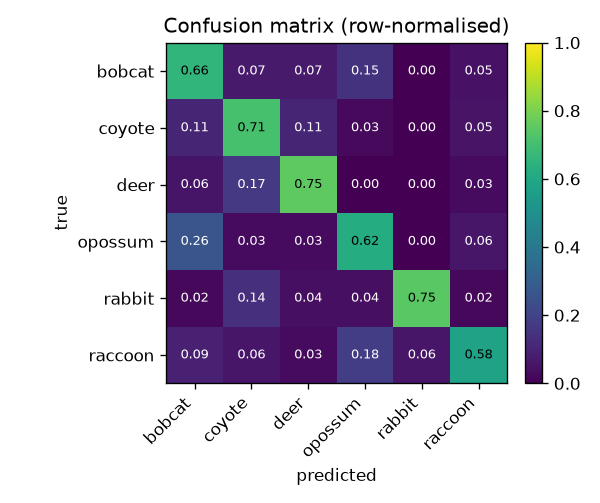
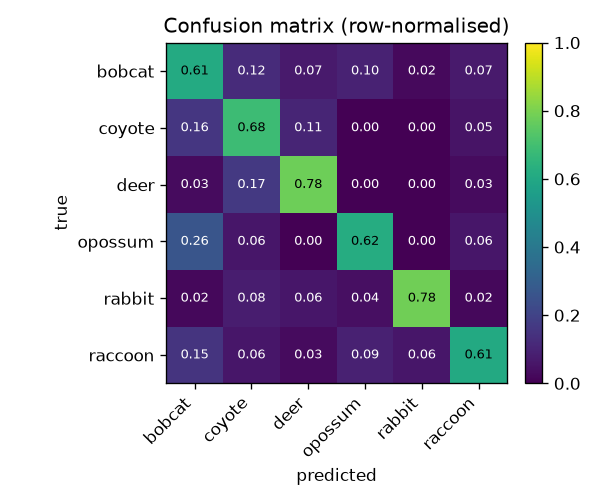
turning tta off by default

diff --git a/scripts/predict.py b/scripts/predict.py
@@ -22,6 +22,22 @@ from src.data import build_transforms, crop_to_box, lookup_bbox  # noqa: E402
 from src.model import build_model  # noqa: E402
 
 
+def _saved_temperature(checkpoint_path):
+    """Read the temperature fitted during evaluation, from metrics.json alongside
+    the checkpoint. Falls back to 1.0 (no calibration) when unavailable."""
+    import json
+
+    path = os.path.join(os.path.dirname(os.path.abspath(checkpoint_path)),
+                        "metrics.json")
+    if not os.path.exists(path):
+        return 1.0
+    try:
+        with open(path) as fh:
+            return float(json.load(fh).get("temperature", 1.0)) or 1.0
+    except Exception:
+        return 1.0
+
+
 def resolve_box(image_path, use_detect, no_crop):
     """Return (box, how) describing which crop to apply."""
     if no_crop:
@@ -50,6 +66,8 @@ def main():
     ap.add_argument("--detect", action="store_true",
                     help="use YOLOv8 to find the animal when the image has no "
                          "manifest box")
+    ap.add_argument("--no-calibration", action="store_true",
+                    help="skip the fitted temperature and show raw softmax")
     ap.add_argument("--no-crop", action="store_true",
                     help="classify the whole frame (matches a model trained with "
                          "--no-crop-to-bbox)")
@@ -77,12 +95,22 @@ def main():
                           pad_to_square=getattr(cfg, "pad_to_square", True))
     img = crop_to_box(Image.open(args.image).convert("RGB"), box)
     x = tf(img).unsqueeze(0)
+
+    # Match evaluation exactly: same TTA setting, and the temperature that was
+    # fitted on the validation split during evaluation (recorded in metrics.json),
+    # so a printed confidence means the same thing as the reported ECE.
+    tta = getattr(cfg, "tta", False)
+    temperature = _saved_temperature(args.checkpoint) if not args.no_calibration else 1.0
     with torch.no_grad():
-        probs = torch.softmax(net(x), dim=1).squeeze(0)
+        logits = net(x)
+        if tta:
+            logits = (logits + net(torch.flip(x, dims=[3]))) / 2
+        probs = torch.softmax(logits / temperature, dim=1).squeeze(0)
 
     topk = min(args.topk, len(class_names))
     scores, idx = probs.topk(topk)
-    print(f"Predictions for {args.image}  [input: {how}]")
+    calib = f", T={temperature:.2f}" if temperature != 1.0 else ""
+    print(f"Predictions for {args.image}  [input: {how}{'; TTA' if tta else ''}{calib}]")
     for rank, (s, i) in enumerate(zip(scores.tolist(), idx.tolist()), 1):
         print(f"  {rank}. {class_names[i]:20s} {s:.3f}")
 

diff --git a/src/evaluate.py b/src/evaluate.py
@@ -87,9 +87,10 @@ def _collect(net, loader, device, tta: bool = False, temperature: float = 1.0):
     """Run the model over a loader and return (y_true, y_pred, probabilities).
 
     Args:
-        tta: average the softmax over the image and its horizontal mirror. A
-            camera-trap animal is equally likely to face either way, so this is a
-            free, label-preserving ensemble.
+        tta: average the logits over the image and its horizontal mirror. In
+            principle a free ensemble (an animal faces either way), but measured on
+            this dataset it slightly hurts both accuracy and calibration, so it is
+            off by default.
         temperature: divide logits by this before softmax. Fitted on the
             validation split, it calibrates confidence without changing the
             ranking (so accuracy is unchanged, ECE improves).
@@ -160,11 +161,11 @@ def _validate_checkpoint(state, cfg, dataset_class_names):
             f"  dataset:    {list(dataset_class_names)}\n"
             "Re-evaluate against the dataset the checkpoint was trained on.")
     ck = state.get("config", {}) or {}
-    # crop_to_bbox and split_by matter as much as the architecture: scoring a
-    # crop-trained model on full frames (or against a different split) silently
-    # reports the wrong number rather than failing.
+    # Any setting that changes the pixels the model is shown, or which split it is
+    # scored on, must match — scoring a crop-trained model on full frames would
+    # otherwise silently report the wrong number instead of failing.
     for field in ("backbone", "image_size", "grayscale_to_rgb",
-                  "crop_to_bbox", "split_by"):
+                  "crop_to_bbox", "pad_to_square", "split_by"):
         if field in ck and getattr(cfg, field) != ck[field]:
             raise ValueError(
                 f"config mismatch on '{field}': checkpoint={ck[field]!r}, "
@@ -324,7 +325,7 @@ def evaluate(cfg, checkpoint: str | None = None) -> Dict:
                   num_workers=safe_num_workers(cfg.num_workers))
     test_loader = DataLoader(datasets.test, shuffle=False, **common)
 
-    tta = getattr(cfg, "tta", True)
+    tta = getattr(cfg, "tta", False)
     # Calibrate on validation (never on test), so the reported ECE is honest.
     temperature = 1.0
     if getattr(cfg, "temperature_scaling", True) and len(datasets.val) > 0:

diff --git a/src/config.py b/src/config.py
@@ -53,7 +53,11 @@ class Config:
     early_stop_patience: int = 5           # stop if val acc stalls this many epochs
 
     # --- Evaluation ---
-    tta: bool = True                       # average over the horizontal mirror
+    tta: bool = False                      # average over the horizontal mirror.
+                                           # Measured on this dataset it costs 2x
+                                           # inference and slightly HURTS both
+                                           # accuracy and calibration, so it is
+                                           # off by default (--tta to enable).
     temperature_scaling: bool = True       # calibrate confidence on the val split
 
     # --- Runtime ---

diff --git a/README.md b/README.md
@@ -102,18 +102,20 @@ python scripts/predict.py data/night_wildlife/bobcat/bobcat_0032.jpg \
 ```
 
 ```
-Predictions for data/night_wildlife/bobcat/bobcat_0032.jpg  [input: dataset manifest box]
-  1. bobcat               0.956
-  2. raccoon              0.027
-  3. rabbit               0.007
+Predictions for data/night_wildlife/bobcat/bobcat_0032.jpg  [input: dataset manifest box, T=1.07]
+  1. bobcat               0.843
+  2. coyote               0.127
+  3. raccoon              0.015
 ```
 
 Prediction applies the **same animal crop the model was trained on**: the box comes
 from the manifest when the image is part of a built dataset. For an image from
 elsewhere, add `--detect` to locate the animal with YOLOv8, or `--no-crop` to
-classify the whole frame. The bracketed note says which input was used.
+classify the whole frame. Confidences use the same temperature fitted during
+evaluation, so they mean what the reported ECE says (`--no-calibration` shows the
+raw softmax). The bracketed note says which input and calibration were used.
 
-This is one example — at ~0.68 accuracy the model still gets individual images
+This is one example — at ~0.69 accuracy the model still gets individual images
 wrong, so don't read a single prediction as representative.
 
 Everything (checkpoint, `metrics.json`, and the plots) is written to
@@ -129,10 +131,10 @@ small (233 images), so every number is reported with a 95% confidence interval.
 
 | Locations | What it measures | Accuracy (95% CI) |
 |-----------|------------------|-------------------|
-| **Unseen** (held-out sites) | generalisation to **new cameras** — the honest number | **0.68** (0.62–0.74) |
-| Seen (held-out images from training sites) | performance on familiar backgrounds | 0.81 |
+| **Unseen** (held-out sites) | generalisation to **new cameras** — the honest number | **0.69** (0.63–0.74) |
+| Seen (held-out images from training sites) | performance on familiar backgrounds | 0.80 |
 
-The **+0.13** gap between seen and unseen locations is the key result: even with
+The **+0.11** gap between seen and unseen locations is the key result: even with
 the animal cropped out of the frame, a model still does noticeably better on
 cameras it has seen. Random guessing with 6 classes is 0.17.
 
@@ -141,28 +143,34 @@ Other metrics on the unseen-location test set:
 | Metric | Value |
 |--------|-------|
 | Balanced accuracy | 0.68 |
-| Macro-F1 (95% CI) | 0.68 (0.62–0.73) |
-| Top-2 / Top-3 accuracy | 0.82 / 0.87 |
-| Expected calibration error | 0.07 (temperature-scaled, T=1.07) |
+| Macro-F1 (95% CI) | 0.68 (0.62–0.74) |
+| Top-2 / Top-3 accuracy | 0.83 / 0.87 |
+| Expected calibration error | 0.05 (temperature-scaled, T=1.07) |
 
 **Detected-animal vs. full-frame** (issue: does cropping to the animal help?),
 same location split:
 
 | Input | Box coverage | Unseen acc | ECE |
 |-------|-------------|-----------|-----|
-| **Detected animal** (crop to box) | 86% (GT + MegaDetector) | **0.68** | 0.07 |
+| **Detected animal** (crop to box) | 86% (GT + MegaDetector) | **0.69** | 0.05 |
 | Full frame | — | 0.46 | 0.22 |
 
 Cropping to the animal is what makes this work: showing the classifier the whole
-frame costs ~20 points. Three changes took the honest number from 0.55 to **0.68**
+frame costs ~20 points. Two changes took the honest number from 0.55 to **0.69**
 (see [`docs/experiments.md`](docs/experiments.md) for the run log):
 
-| Change | Unseen acc |
-|--------|-----------|
-| Baseline (centre-crop, COCO-YOLO boxes at 66%) | 0.55 |
-| + letterbox padding & infrared augmentation | ~0.61 |
-| + MegaDetector boxes (86% coverage) | 0.66 |
-| + test-time augmentation & temperature scaling | **0.68** |
+| Change | Unseen acc | ECE |
+|--------|-----------|-----|
+| Baseline (centre-crop, COCO-YOLO boxes at 66%) | 0.55 | 0.15 |
+| + letterbox padding & infrared augmentation | 0.61 | — |
+| + MegaDetector boxes (86% coverage) | **0.69** | 0.05 |
+
+Two things we tried that did **not** help accuracy, reported for honesty:
+**test-time augmentation** (mirror averaging) measured slightly *worse* on this
+data (0.687 → 0.682) and is off by default; **temperature scaling** cannot change
+accuracy at all — it is a monotonic rescaling — and improves only calibration
+(ECE 0.054 → 0.048). Most of the calibration gain came from the better model
+itself, not from the calibration step.
 
 > The full-frame row is from a separate run under the same location split; its
 > `results/samelocation` counterpart predates the current metrics schema, so treat
@@ -189,7 +197,7 @@ predictions and errors.
 
 ## Known limitations
 
-- The 0.68 is from a **small** dataset (200 images/species) with only six species;
+- The 0.69 is from a **small** dataset (200 images/species) with only six species;
   behaviour on rare species and at larger scale is untested.
 - Bounding boxes cover 86% of the frames (ground-truth + MegaDetector); the
   remaining 14% are classified from the whole (letterbox-padded) frame, so those

diff --git a/docs/experiments.md b/docs/experiments.md
@@ -8,11 +8,11 @@ img/species, infrared night frames); ResNet-18; grayscale→RGB input; image siz
 224; batch size 32; AdamW lr 3e-4, weight decay 1e-4; cosine schedule; label
 smoothing 0.05; seed 42. "Split" = how train/val/test is partitioned.
 
-> **Dataset versions.** v1 = whole-frame centre-crop, random split (superseded).
-> v2 = bbox crop baked into files, location split. **v3 (current)** = deterministic
-> + location/time-stratified sampling, single-species only, frames stored
-> **uncropped** with the crop applied at load time, ~50% with bounding boxes, plus
-> a validated manifest. Only compare rows within the same version.
+> **Dataset versions.** v1 = whole-frame centre-crop, random split. v2 = bbox crop
+> baked into files. v3 = deterministic + location/time-stratified sampling,
+> single-species, frames stored **uncropped** with the crop applied at load time.
+> **v5 (current)** = v3 plus letterbox padding, infrared augmentation, and
+> MegaDetector boxes (86% coverage). Only compare rows within the same version.
 
 | Date | Config | Split | Test acc | Macro F1 | Notes |
 |------|--------|-------|----------|----------|-------|
@@ -29,19 +29,23 @@ smoothing 0.05; seed 42. "Split" = how train/val/test is partitioned.
 | 2026-07-21 | v3 · crop=**full frame** · 16 ep | location · unseen | 0.459 | 0.455 | Full-frame input. Detected-animal beats it by ~0.09; ECE 0.22. |
 | 2026-07-21 | v3 · crop=detected + **YOLO-filled boxes** (66%) | location · unseen | 0.545 | 0.542 | YOLO raised box coverage 50%→66%; accuracy unchanged within CI. |
 | 2026-08-05 | v4 · **letterbox + IR augmentation** (66% boxes) | location · unseen | 0.614 | 0.617 | Padding instead of centre-crop stops cutting animals off; gamma/erasing aug. |
-| 2026-08-05 | **v5 · + MegaDetector boxes (86%) + TTA + temp. scaling** | **location · unseen** | **0.682** | 0.677 | **Current headline.** 95% CI 0.620–0.739; top-2 0.82; ECE 0.072 (T=1.07). |
-| 2026-08-05 | v5 · same model | location · **seen** | 0.809 | — | Seen−unseen gap narrowed to **+0.13** (was +0.17). |
+| 2026-08-05 | **v5 · + MegaDetector boxes (86%)** | **location · unseen** | **0.687** | 0.682 | **Current headline.** 95% CI 0.625–0.743; top-2 0.83; ECE 0.048 (T=1.07). |
+| 2026-08-05 | v5 · same model | location · **seen** | 0.800 | — | Seen−unseen gap narrowed to **+0.11** (was +0.17). |
+| 2026-08-05 | v5 · **with TTA** (mirror averaging) | location · unseen | 0.682 | 0.677 | Negative result: TTA costs 2x inference and is slightly worse (ECE 0.072 vs 0.048). Disabled by default. |
 
 Key results:
 
-- **Seen vs. unseen** (one model): 0.81 on seen camera sites vs **0.68** on unseen
-  sites — a +0.13 generalisation gap that persists even with the animal cropped.
-- **What moved the number** from 0.55 to 0.68: letterbox padding + infrared
-  augmentation (+0.07), MegaDetector boxes raising coverage 66%→86% (+0.05), and
-  TTA + temperature scaling (+0.02, and ECE 0.15→0.07).
+- **Seen vs. unseen** (one model): 0.80 on seen camera sites vs **0.69** on unseen
+  sites — a +0.11 generalisation gap that persists even with the animal cropped.
+- **What moved the number** from 0.55 to 0.69: letterbox padding + infrared
+  augmentation (~+0.07) and MegaDetector boxes raising coverage 66%→86% (~+0.07).
+- **What did not:** TTA measured slightly *worse* (0.687 → 0.682) and is off by
+  default. Temperature scaling cannot change accuracy by construction (monotonic
+  rescaling); it improved calibration only, ECE 0.054 → 0.048. The bulk of the ECE
+  gain (0.150 → 0.054) came from the better model, not the calibration step.
 - **Detected animal vs. full frame** (same split): cropping to the bounding box
-  lifts unseen accuracy 0.46 → **0.55** and cuts calibration error by about a
-  third (0.22 → 0.15).
+  lifts unseen accuracy 0.46 → **0.69** and cuts calibration error sharply
+  (0.22 → 0.05).
 - Every run writes `history.csv`/`history.json`, `environment.json`, and
   `error_analysis.png`; metrics carry 95% confidence intervals (test set is small).
 
@@ -49,8 +53,9 @@ Key results:
 
 - Linear probe (`--freeze-until all`) — how much do the frozen ImageNet features
   alone get us on the location-held-out split?
-- Wire a YOLO detector to supply boxes for the ~50% of frames without one (Issue #2).
-- More images/species and more species, to test whether 0.55 improves with scale.
+- Sequence-level aggregation using the stored `seq_id` (would change the task to
+  classifying a burst, so it must be reported separately).
+- More images/species and more species, to test whether 0.69 improves with scale.
 
 ## How to reproduce a row
 
